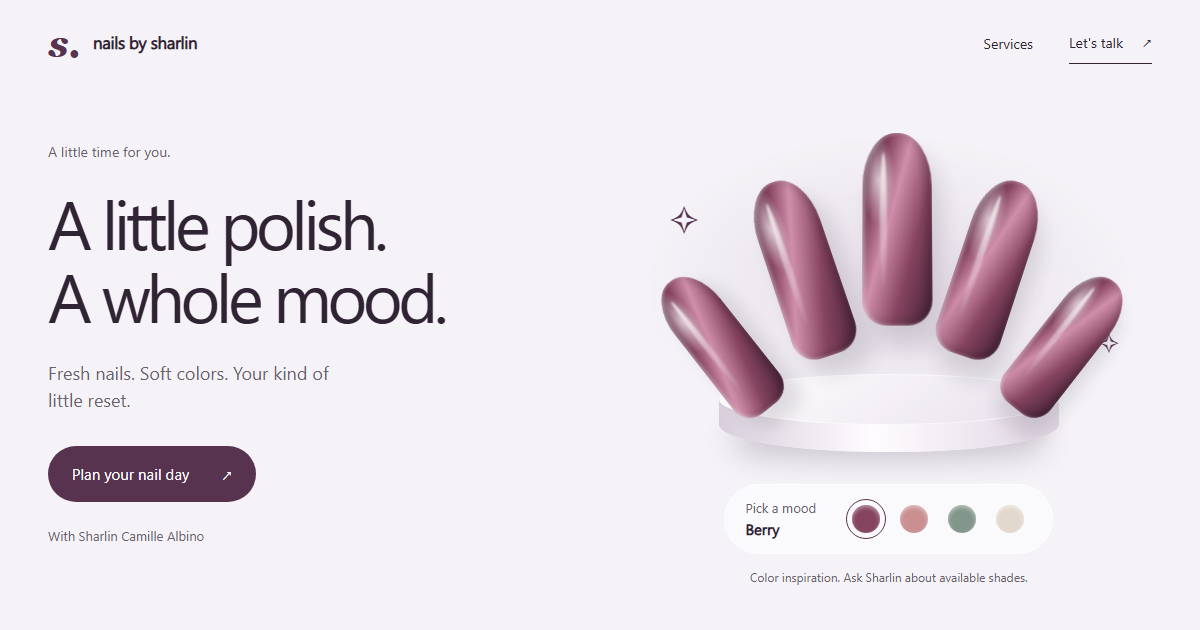
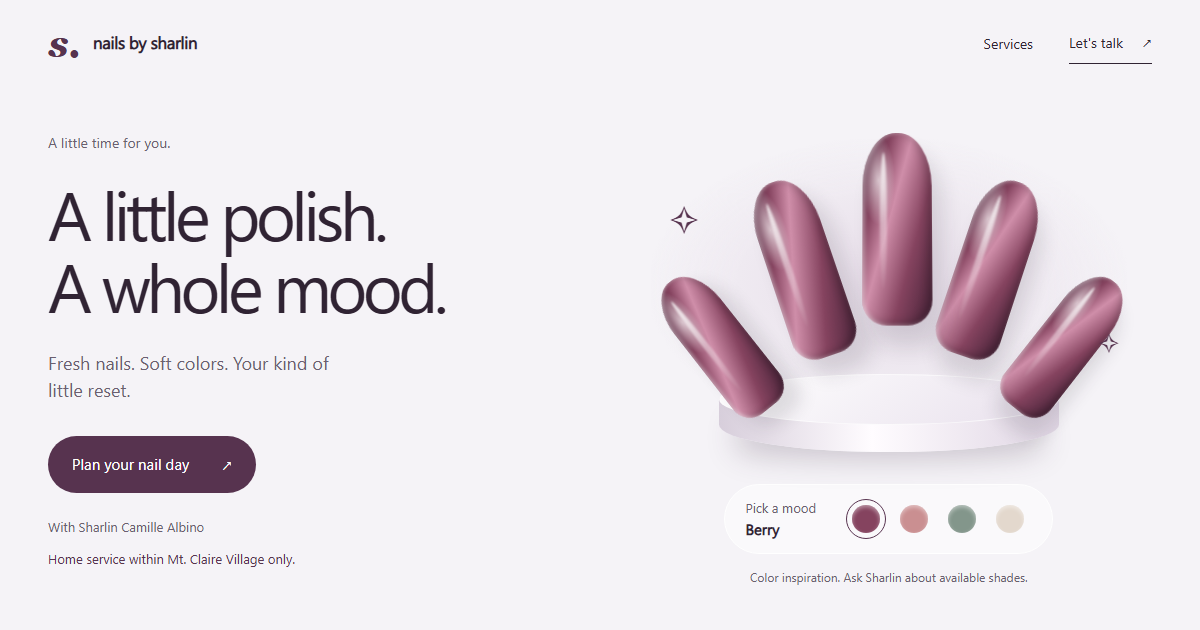
Refresh social preview with Mt. Claire home service

diff --git a/index.html b/index.html
@@ -10,8 +10,8 @@
   <meta property="og:type" content="website">
   <meta property="og:site_name" content="Nails by Sharlin">
   <meta property="og:url" content="https://nails-by-sharlin.vercel.app/">
-  <meta property="og:image" content="https://nails-by-sharlin.vercel.app/assets/hero-preview.png">
-  <meta property="og:image:secure_url" content="https://nails-by-sharlin.vercel.app/assets/hero-preview.png">
+  <meta property="og:image" content="https://nails-by-sharlin.vercel.app/assets/hero-preview.png?v=2">
+  <meta property="og:image:secure_url" content="https://nails-by-sharlin.vercel.app/assets/hero-preview.png?v=2">
   <meta property="og:image:type" content="image/png">
   <meta property="og:image:width" content="1200">
   <meta property="og:image:height" content="630">
@@ -19,7 +19,7 @@
   <meta name="twitter:card" content="summary_large_image">
   <meta name="twitter:title" content="Nails by Sharlin | A little polish. A whole mood.">
   <meta name="twitter:description" content="Nail services at Generoso Sari-Sari Store, Phase 2, Mt. Claire Village. Home service within Mt. Claire Village only.">
-  <meta name="twitter:image" content="https://nails-by-sharlin.vercel.app/assets/hero-preview.png">
+  <meta name="twitter:image" content="https://nails-by-sharlin.vercel.app/assets/hero-preview.png?v=2">
   <link rel="canonical" href="https://nails-by-sharlin.vercel.app/">
   <title>Nails by Sharlin | Nail services</title>
   <link rel="icon" href="./favicon.svg" type="image/svg+xml">
@@ -70,3 +70,4 @@
   <footer class="footer wrap"><a class="brand" href="#"><span class="brand-mark" aria-hidden="true">s.</span><span>nails by sharlin</span></a><p>Little details. Lovely days.</p><a href="https://www.facebook.com/sharlinemae.albino.71" target="_blank" rel="noopener noreferrer">Sharlin on Facebook <span aria-hidden="true">↗</span></a></footer>
 </body>
 </html>
+
